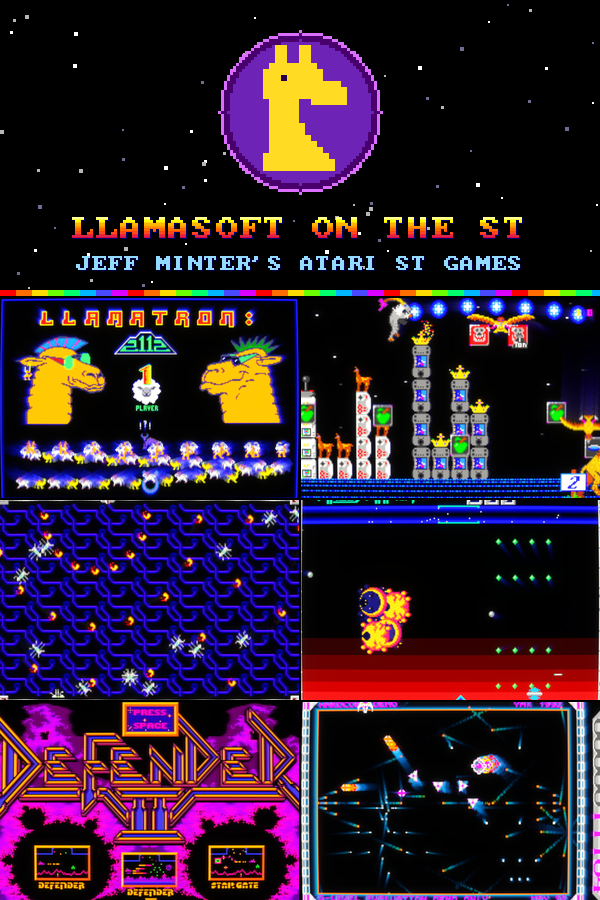
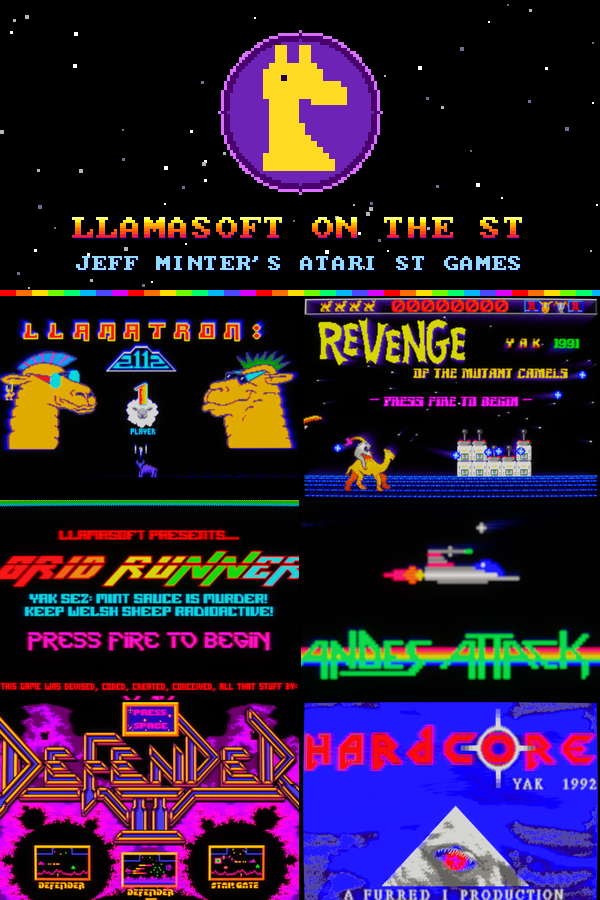
Steam art: the owner's title-screen captures as the tiles
Llamatron, Gridrunner, Revenge, Trip-A-Tron, Andes Attack, Hardcore and Photon
Storm now use the owner's CRT++ captures of their title screens (Defender II's
title stays ours). Tiles can fit a picture's whole width, and each image is
cropped to its picture first (no side bars or pad hint line).

diff --git a/Tools/make_steam_art.py b/Tools/make_steam_art.py
@@ -1,11 +1,11 @@
 """Steam library art for "Llamasoft on the ST" (owner 2026-11-07), in the cover's style (Tools/make_cover.py): the
 title in the program's 8 x 8 font with the Llamasoft raster gradient, the program's llama on its badge, rainbow raster
-lines, and tiles of the games as the app shows them (screenshots through each game's own CRT++ look, 1920 x 1200).
+lines, and tiles of the games as the app shows them (screenshots through each game's own CRT++ look).
 Writes res/steam/: capsule.png 600 x 900 (library portrait), wide.png 920 x 430 (horizontal capsule), hero.png
 1920 x 620 (the banner behind the game's page), logo.png 1280 x 360 (transparent, over the hero). The settings
 disk's ADD TO STEAM copies them into Steam's grid folder (src/steam.cpp).
-The screenshots (not in git) come from windowed runs: --window --window-size=1920x1200 --rshot=N:<name>_N.bmp (the
-commands are in CLAUDE.md "Steam art"); PICKS names the ones used and the part of each picture shown.
+The screenshots (not in git, logs/steamshots): the owner's captures in own/ and windowed runs of ours (--window
+--window-size=1920x1200 --rshot=N:<name>_N.bmp); PICKS names the ones used and the part of each picture shown.
 usage: python -P Tools/make_steam_art.py <folder of screenshots> [<out folder>]"""
 import importlib.util
 import os
@@ -20,23 +20,25 @@ cover = importlib.util.module_from_spec(spec)
 spec.loader.exec_module(cover)
 st, font = cover.st, cover.font()
 
-# The picture inside a 1920 x 1200 shot: PAL aspect (320 x 217 in square units), centred, full height.
+# Our own 1920 x 1200 captures: the picture is PAL aspect (320 x 217 in square units), centred, full height.
 SHOT_W, SHOT_H = 1920, 1200
-PIC_W = SHOT_H * 320 / 217
-PIC_X = (SHOT_W - PIC_W) / 2
+OWN_PIC = ((SHOT_W - SHOT_H * 320 / 217) / 2, 0, (SHOT_W + SHOT_H * 320 / 217) / 2, SHOT_H)
 
-# name: (shot, centre x, centre y, zoom) - centre in the ST picture's 0..1 coordinates; zoom 1 = the whole height.
+# name: (file in the shots folder, the picture's rectangle in it (None: the whole image), centre x, centre y, zoom).
+# Centre in the picture's 0..1 coordinates; zoom 1 = the picture's whole height (below 1: black around it), 'fit' =
+# its whole width.
+# own/ = the owner's captures (2026-11-07: title screens through the app's CRT++, from their Videos\Captures;
+# Grid / Revenge / Hardcore are 4K frames with the side bars, Grid's pad hint line below y 1830); ours (a windowed
+# run's 1920 x 1200) for Defender II's title.
 PICKS = {
-    'llamatron': ('llamatron_3800', 0.5, 0.52, 1.25),
-    'llamatitle': ('llamatron_3550', 0.5, 0.45, 1.0),
-    'gridrunner': ('gridrunner_3900', 0.5, 0.45, 1.2),
-    'gridlost': ('gridrunner_4200', 0.5, 0.5, 1.15),
-    'tripatron': ('tripatron_2800', 0.5, 0.55, 1.1),
-    'camels': ('rmctt_2800', 0.5, 0.58, 1.3),
-    'andes': ('andes_1700', 0.5, 0.5, 1.12),
-    'defender2': ('defender2_1550', 0.5, 0.42, 1.12),
-    'hardcore': ('hardcore_1800', 0.45, 0.5, 1.1),
-    'photonstorm': ('photonstorm_2800', 0.47, 0.64, 2.0),
+    'llamatitle': ('own/Llamatron.png', None, 0.5, 0.5, 'fit'),
+    'gridrunner': ('own/Grid.png', (328, 0, 3511, 1825), 0.5, 0.5, 1.07),
+    'tripatron': ('own/Trip.png', None, 0.5, 0.52, 1.45),
+    'camels': ('own/Revenge.png', (328, 0, 3502, 2160), 0.5, 0.5, 1.0),
+    'andes': ('own/Andes.png', None, 0.5, 0.48, 1.12),
+    'defender2': ('defender2_1550.bmp', OWN_PIC, 0.5, 0.42, 1.12),
+    'hardcore': ('own/Hardcore.png', (328, 0, 3511, 2160), 0.5, 0.5, 1.0),
+    'photonstorm': ('own/photon.png', None, 0.5, 0.45, 'fit'),
 }
 
 RAINBOW = [st(c) for c in [(7, 0, 0), (7, 3, 0), (7, 6, 0), (3, 7, 0), (0, 7, 3), (0, 5, 7), (2, 2, 7), (6, 0, 7)]]
@@ -45,19 +47,29 @@ GRAD = [st(c) for c in [(7, 7, 4), (7, 7, 2), (7, 7, 0), (7, 6, 0), (7, 5, 0), (
 TITLE, SUB = 'LLAMASOFT ON THE ST', "JEFF MINTER'S ATARI ST GAMES"
 
 
-def tile(shots, name, w, h):
-    """A game's tile: part of its screenshot, w x h, cropped to that shape around the pick's centre."""
-    shot, cx, cy, zoom = PICKS[name]
-    img = Image.open(os.path.join(shots, shot + '.bmp')).convert('RGB')
-    ch = SHOT_H / zoom
-    cw = ch * w / h
-    if cw > PIC_W / zoom * 1.0001 and cw > PIC_W:  # (wider than the picture: fit the width instead)
-        cw = PIC_W
+def tile(shots, name, w, h, fit=False):
+    """A game's tile: part of its picture, w x h, cropped to that shape around the pick's centre (inside the picture
+    where it fits; centred, with black around, where it doesn't)."""
+    path, rect, cx, cy, zoom = PICKS[name]
+    img = Image.open(os.path.join(shots, path)).convert('RGB')
+    if rect:  # only the picture: anything beyond it (bars, the pad hint line) comes out black
+        img = img.crop(tuple(int(v) for v in rect))
+    x0, y0, x1, y1 = 0, 0, img.width, img.height
+    pw, ph = x1 - x0, y1 - y0
+    if fit or zoom == 'fit':  # the picture's whole width (black above and below if the tile is taller)
+        cw = pw
         ch = cw * h / w
-    x = PIC_X + cx * PIC_W - cw / 2
-    y = cy * SHOT_H - ch / 2
-    x = min(max(x, PIC_X), PIC_X + PIC_W - cw)
-    y = min(max(y, 0), SHOT_H - ch)
+    else:
+        ch = ph / zoom
+        cw = ch * w / h
+    x = x0 + cx * pw - cw / 2
+    y = y0 + cy * ph - ch / 2
+    x = min(max(x, x0), x1 - cw) if cw <= pw else x0 + (pw - cw) / 2
+    y = min(max(y, y0), y1 - ch) if ch <= ph else y0 + (ph - ch) / 2
+    if x < 0 or y < 0 or x + cw > img.width or y + ch > img.height:  # (black beyond the image)
+        pad = Image.new('RGB', (img.width + 2 * int(cw), img.height + 2 * int(ch)), (0, 0, 0))
+        pad.paste(img, (int(cw), int(ch)))
+        img, x, y = pad, x + int(cw), y + int(ch)
     return img.resize((w, h), Image.LANCZOS, box=(x, y, x + cw, y + ch))
 
 
@@ -159,16 +171,16 @@ def wide(shots):
     paste_px(img, title, tx, ty)
     paste_px(img, sub, tx + (title.width - sub.width) // 2, ty + title.height + 16)
     raster_line(img, 190, 6, 2, 3)
-    names = ['llamatron', 'camels', 'defender2', 'photonstorm']
+    names = ['llamatitle', 'camels', 'gridrunner', 'photonstorm']
     for i, n in enumerate(names):
-        img.paste(tile(shots, n, 228, 232), (i * 230 + (1 if i else 0), 198))
+        img.paste(tile(shots, n, 228, 232, fit=True), (i * 230 + (1 if i else 0), 198))
     return img
 
 
 def hero(shots):
     """The page banner 1920 x 620: eight games in two rows of four (Steam puts the logo over its lower left)."""
     img = Image.new('RGB', (1920, 620), (0, 0, 0))
-    names = ['llamatron', 'gridrunner', 'tripatron', 'camels', 'andes', 'defender2', 'hardcore', 'photonstorm']
+    names = ['llamatitle', 'gridrunner', 'tripatron', 'camels', 'andes', 'defender2', 'hardcore', 'photonstorm']
     for i, n in enumerate(names):
         x, y = (i % 4) * 480, (i // 4) * 312
         img.paste(tile(shots, n, 476, 306), (x + 2, y + (0 if i < 4 else 2)))

diff --git a/CLAUDE.md b/CLAUDE.md
@@ -206,6 +206,8 @@ elease\Llamatron-<ver>-windows.zip (no game
   (transparent), in make_cover.py's style; tiles = screenshots through each game's own CRT++ look (not in git:
   logs/steamshots), taken with --window --window-size=1920x1200 --program=X --rshot=N:<name>_N.bmp and the smoke
   inputs (PICKS in the script: shot, centre, zoom). Shipped as Extras\Steam art (package_portable.ps1).
+  2026-11-07: the tiles are now mostly the owner's own title-screen captures (logs/steamshots/own: Llamatron, Grid,
+  Revenge, Trip, photon, Andes, Hardcore; from their Videos\Captures), ours only for Defender II's title.
 - src/steam.cpp AddToSteam (panel GENERAL, ADD TO STEAM, Kind::kSteam; outcome on the row, <= 18 letters):
   launched from Steam (env SteamGameId = appid << 32 | 0x02000000; Proton: Steam root = Z: +
   STEAM_COMPAT_CLIENT_INSTALL_PATH) -> art only, for every user whose shortcuts.vdf has that appid. Else (Windows,
